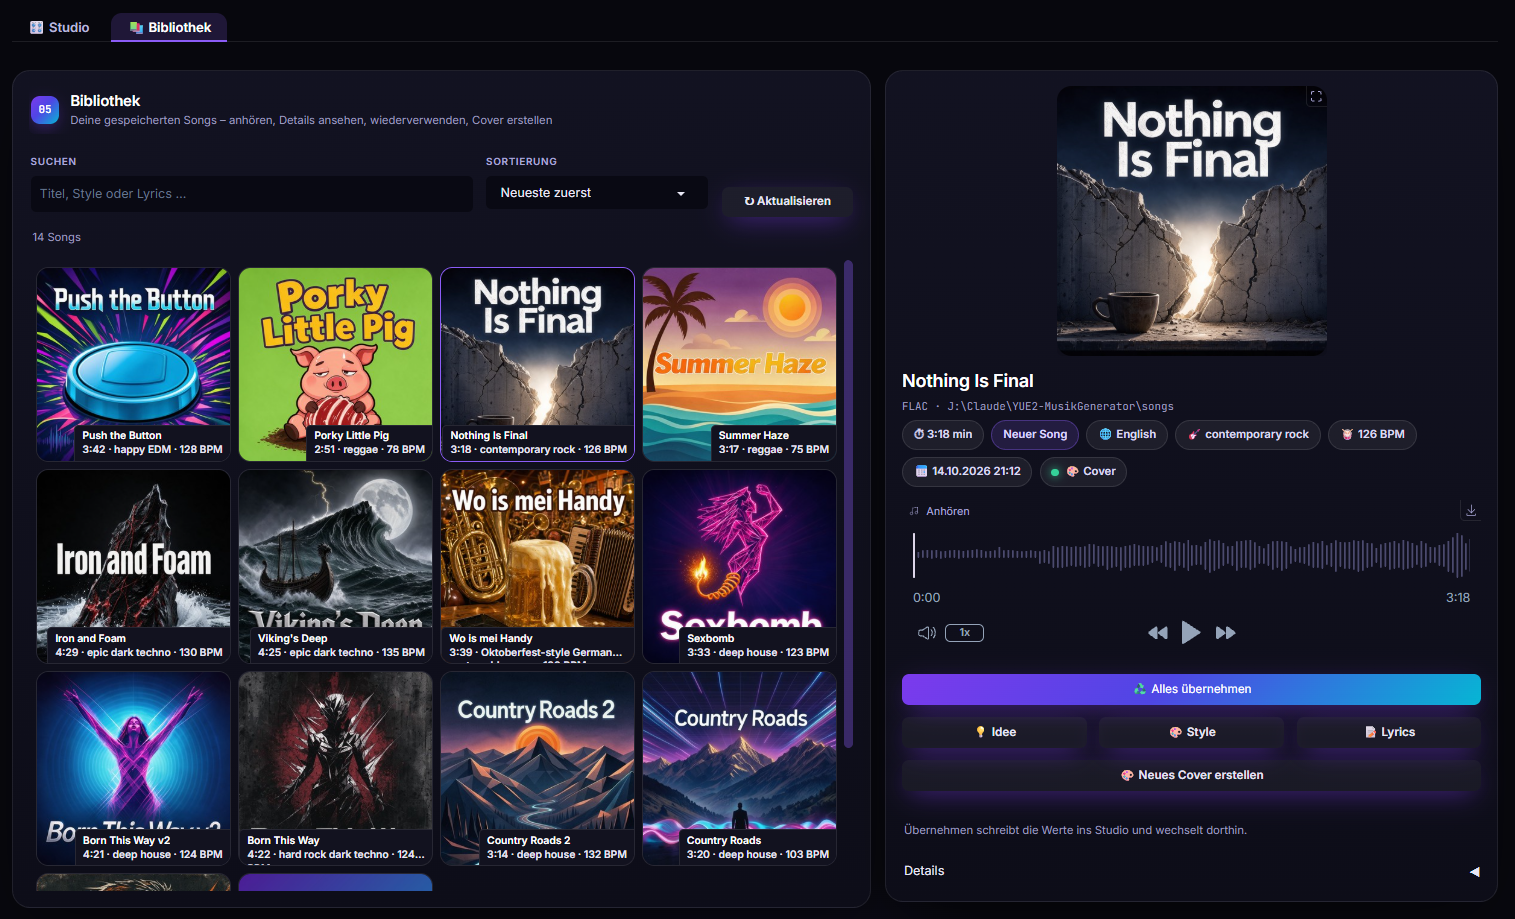
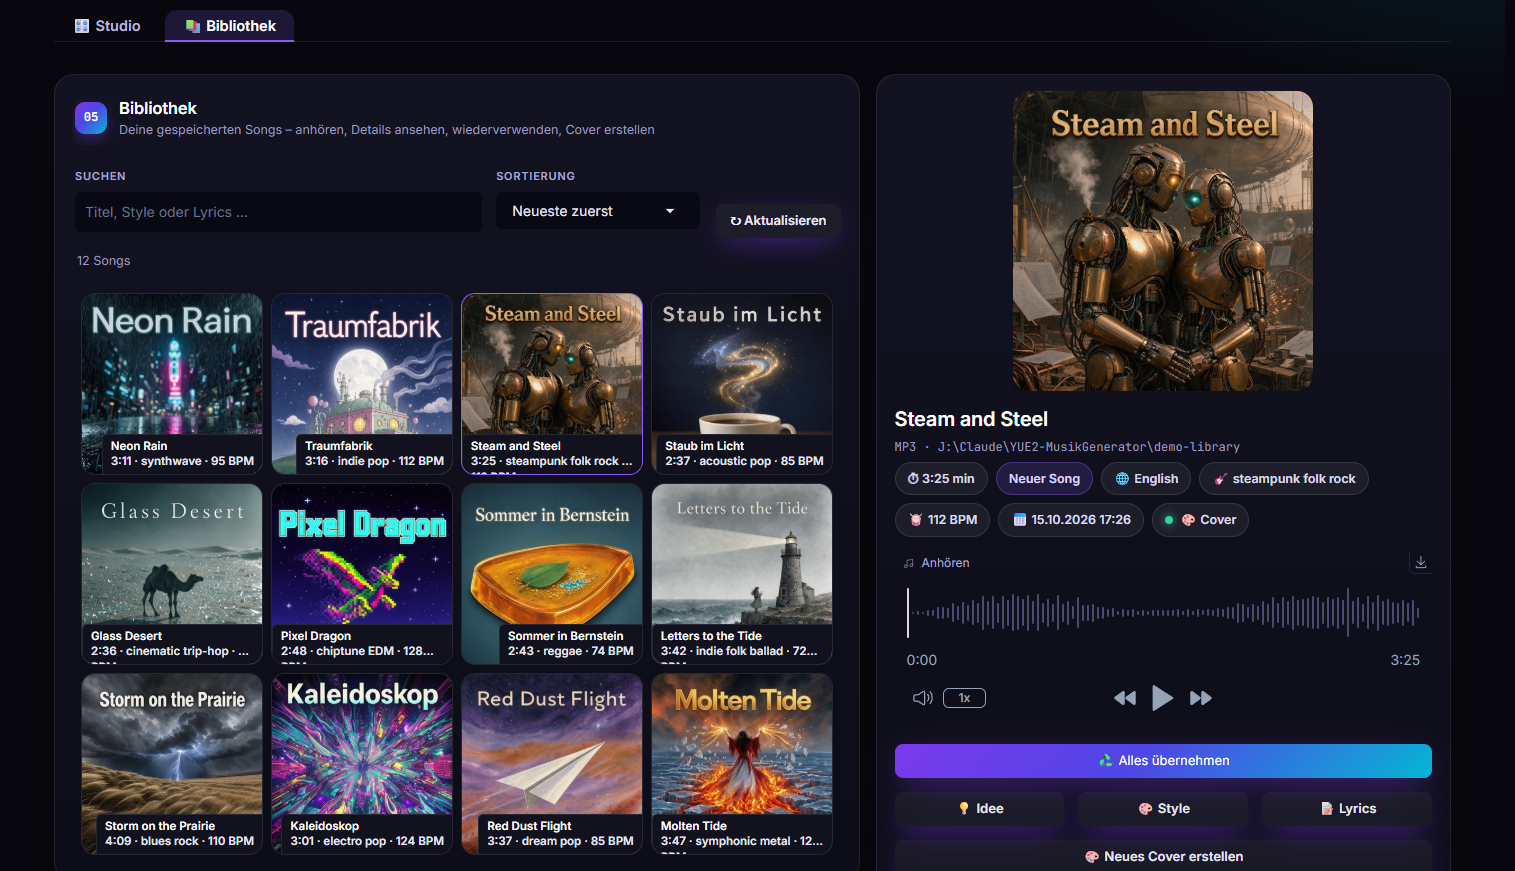
Vorschaubild Bibliothek mit erfundenen Liedern, Cover-Titel zuverlässiger
- docs/vorschau2.png zeigt eine Demo-Bibliothek mit zwölf erfundenen Songs
  (Lyrics von Ollama, Cover von FLUX.3) statt eigener Songtitel
- Cover: Titel-Schriftzug im oberen Drittel (die Bildunterschrift in der
  Bibliothek verdeckte Titel am unteren Rand); fehlt der Titel in der
  Bildbeschreibung von Ollama, ergänzt die App ihn
- Einbetten: Wiederholung, wenn Virenscanner/Suche die Audiodatei kurz sperren

diff --git a/cover.py b/cover.py
@@ -6,6 +6,7 @@ import shutil
 import subprocess
 import tempfile
 import threading
+import time
 from pathlib import Path
 
 import gpu_info
@@ -145,9 +146,15 @@ def cover_request(title, style, concept, lyrics):
         "illustration, painting, graphic design or photography). The artwork fills the whole square canvas: "
         "no border, no frame, no vinyl or CD mockup, no hands holding it.\n"
         f"Render exactly one piece of text: the song title \"{title}\" as large, clearly legible typography that "
-        "belongs to the design; describe its font style, color and placement. Write the title exactly as given, "
-        "letter by letter. No other words, letters, numbers, artist names, logos, labels or watermarks anywhere."
+        "belongs to the design, placed in the upper third of the cover (players and libraries overlay the lower "
+        "edge); describe its font style and color. Write the title exactly as given, letter by letter. No other "
+        "words, letters, numbers, artist names, logos, labels or watermarks anywhere."
     )
+
+
+def _title_sentence(title):
+    return (f" Across the upper third of the cover, the title \"{title}\" is written in large, bold, clearly legible "
+            "letters that contrast strongly with the background.")
 
 
 def cover_caption(model, title, style, concept, lyrics):
@@ -157,6 +164,9 @@ def cover_caption(model, title, style, concept, lyrics):
     caption = caption.strip().strip('"').strip()
     if not caption:
         raise RuntimeError(t("cover.no_caption"))
+    # Das Sprachmodell lässt den Schriftzug gelegentlich weg – ohne Titel in Anführungszeichen malt FLUX keinen.
+    if f'"{title}"'.lower() not in caption.lower():
+        caption += _title_sentence(title)
     return caption
 
 
@@ -179,7 +189,16 @@ def _embed(audio, cover_jpg, title):
     if proc.returncode != 0 or not tmp.exists():
         tmp.unlink(missing_ok=True)
         raise RuntimeError(t("cover.embed_failed", file=audio.name, e=proc.stderr.decode(errors="replace")[-400:]))
-    os.replace(tmp, audio)
+    # Virenscanner, Windows-Suche oder ein Player halten frische Dateien manchmal kurz fest – kurz erneut versuchen.
+    for attempt in range(20):
+        try:
+            os.replace(tmp, audio)
+            return
+        except PermissionError:
+            if attempt == 19:
+                tmp.unlink(missing_ok=True)
+                raise
+            time.sleep(0.5)
 
 
 def embed_existing(audio_file, title=""):
